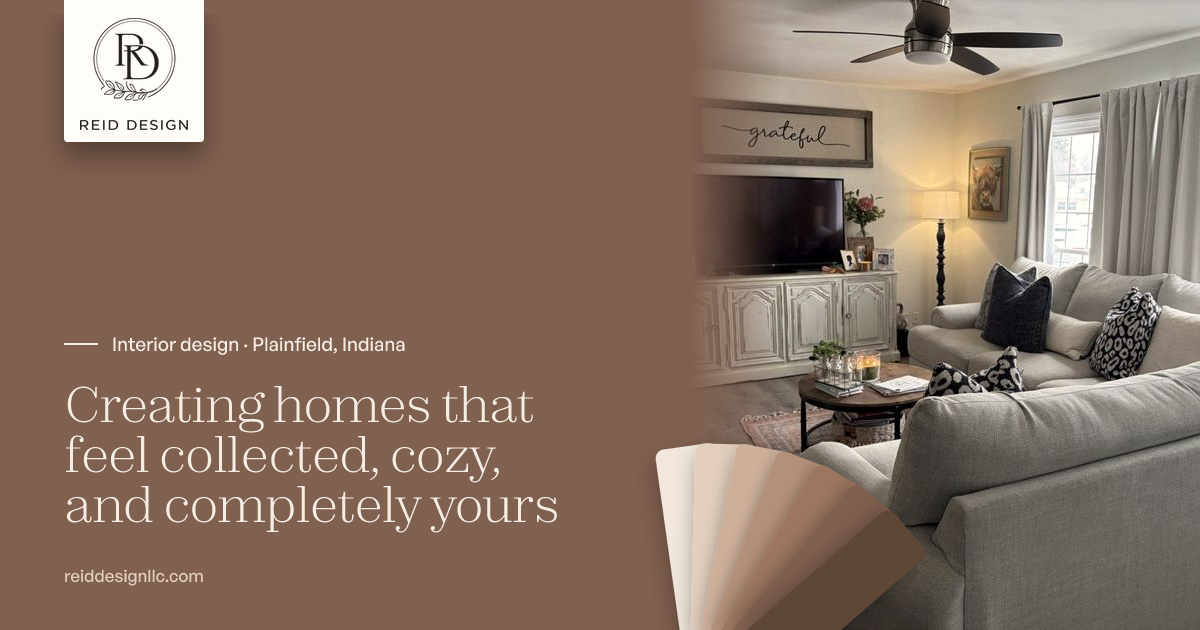
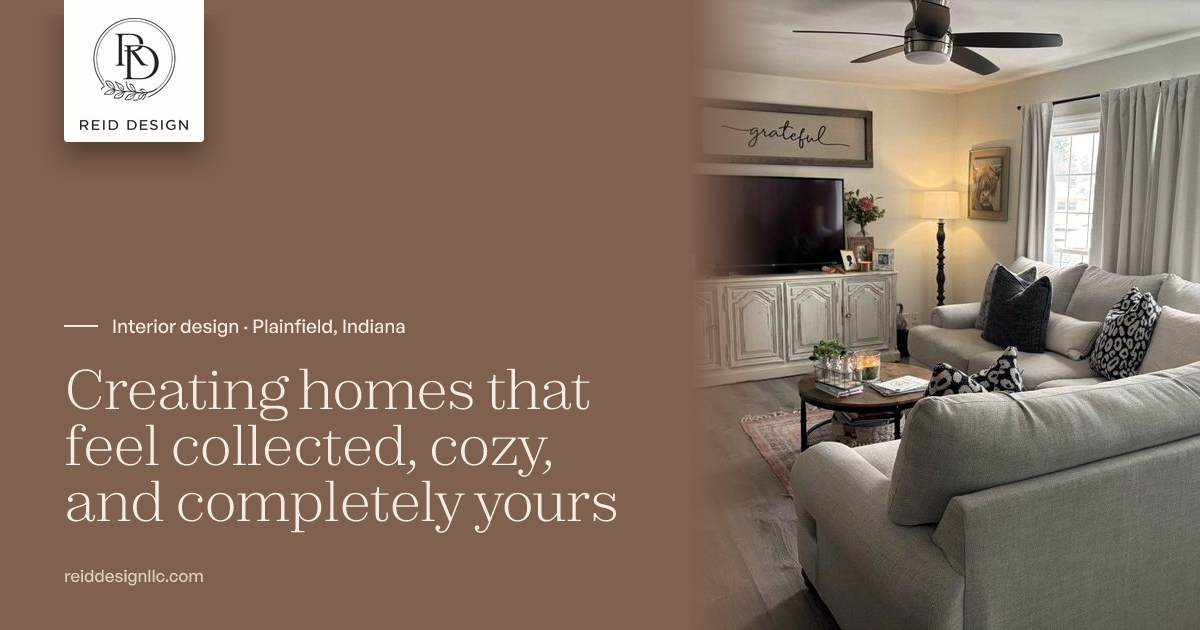
Drop the decorative paint swatches: hero fan, footer strip, share-card fan
Nathan found the decorative swatches repetitive and a bit fake. Paint chips
now appear only where they carry content (the services with their prices, the
phone menu's deck of pages). Removed the fan deck at the home hero's seam and
its mouse-follow script, the seven-tone strip across the top of the footer,
and the fan on every share card (design E is now 'the hero card'; a page with
no photo gets her monogram on Espresso). og-default.png redrawn. DESIGN.md
records the rule.

Claude-Session: https://claude.ai/code/session_01Seuu8jhnRzdMn2hnmBxNKt

Changed region(s): [[0.0308, 0.573, 0.7708, 1.0], [0.0925, 0.5127, 0.3392, 0.573]]

diff --git a/src/scripts/window-light.ts b/src/scripts/window-light.ts
@@ -7,7 +7,7 @@
 // sun from a window, cut by its muntins, with the shadows of leaves outside
 // swaying slowly across everything. One small fragment shader, drawn onto a
 // canvas laid over the band with `mix-blend-mode: soft-light`, so it lightens
-// and darkens what is under it (the photo, the fan deck, the Walnut ground)
+// and darkens what is under it (the photo and the Walnut ground)
 // without ever painting a colour of its own.
 //
 // Opt in with an attribute on the band:

diff --git a/CLAUDE.md b/CLAUDE.md
@@ -143,7 +143,7 @@ Studio plumbing, added 2026-08-28. All SSR (`prerender = false`), all `noindex`,
 - `src/lib/sanity.ts`, `src/lib/queries.ts`, `src/lib/sanity.types.ts` (Sanity client, GROQ queries, generated types)
 - `src/lib/scriptAccent.ts` — shared helper `splitScriptAccent(headline, accent)` used by `Hero.astro`, `SectionHeading.astro`, `FinalCta.astro`, `RiseWords.astro` and `home/HomeWords.astro` to split a headline around the accent phrase, which renders in Zodiak italic since the 2026-09-29 rebuild (no script font)
 - **The rebuild layer (2026-09-29, read `DESIGN.md` first):** `src/styles/reid.css` (primitives: `.r-wrap`, `.r-btn`, `.r-link`, headings, `.r-tag`, `.r-rise`), `src/components/RiseWords.astro` (server-split word-rise headline), `src/components/home/*` (HomeHero, HomeStaci, PaintChips, TapeProcess, HomeWords), `src/lib/cta.ts` (`resolveCtaHref`, shared with `CtaLink.astro`), `scripts/fetch-fonts.mjs` + `scripts/fonts.lock.json`. `FinalCta.astro`, `ServiceAreaCue.astro`, `Header.astro` and the ink footer were rebuilt in place, and the header, phone menu and footer again on 2026-09-30 as the **swatch book chrome** (DESIGN.md "Chrome"): `.r-pricetag` in `reid.css`, `src/components/mobile-nav/mobile-nav.css`, and `src/lib/chrome-facts.ts` + `getChromeFacts()` in `queries.ts` (the header's consultation price and the footer index's facts, all derived from content, never typed).
-- **The hand layer (2026-09-30, DESIGN.md "The hand layer"):** `src/scripts/ambient-doodles.ts` (one faint fine-line botanical, in the style of Staci's Instagram drawings, growing in from a corner of every content section; fetched as the section nears the screen) + `src/styles/doodle.css` (the draw-in, the corner placements, the Sandbar marker under h2/h3 accent phrases, the window-light canvas style), `src/lib/doodle-map.ts` (which botanical goes where, tested), `scripts/doodles.config.mjs` (the drawings, as geometry; safe to edit) + `scripts/lib/doodle-kit.mjs` + `scripts/generate-doodles.mjs` (`npm run doodles` rewrites the committed `src/assets/doodles/*.svg`), the phone menu sprig (`MobileNav.tsx`), `src/scripts/window-light.ts` (WebGL leaf shadows and window sun on `[data-window-light]` bands, started from BaseLayout; "sun" keeps the bright patch off the copy, "shade" only darkens) and the fan-follows-the-mouse script in `home/HomeHero.astro`. A section can opt out of its botanical with `data-no-doodle`.
+- **The hand layer (2026-09-30, DESIGN.md "The hand layer"):** `src/scripts/ambient-doodles.ts` (one faint fine-line botanical, in the style of Staci's Instagram drawings, growing in from a corner of every content section; fetched as the section nears the screen) + `src/styles/doodle.css` (the draw-in, the corner placements, the Sandbar marker under h2/h3 accent phrases, the window-light canvas style), `src/lib/doodle-map.ts` (which botanical goes where, tested), `scripts/doodles.config.mjs` (the drawings, as geometry; safe to edit) + `scripts/lib/doodle-kit.mjs` + `scripts/generate-doodles.mjs` (`npm run doodles` rewrites the committed `src/assets/doodles/*.svg`), the phone menu sprig (`MobileNav.tsx`), `src/scripts/window-light.ts` (WebGL leaf shadows and window sun on `[data-window-light]` bands, started from BaseLayout; "sun" keeps the bright patch off the copy, "shade" only darkens). A section can opt out of its botanical with `data-no-doodle`.
 - `src/lib/sectionVisibility.ts` — `getSectionVisibility(raw)` converts the raw `siteSettings.sectionVisibility` Sanity object into a flat boolean map. Rule: `value !== false` (unset/null/true = visible; only explicit false = hidden). Every toggleable page imports this and redirects home when its flag is false. See [Section visibility](docs/agent/page-architecture.md#section-visibility) in the Page architecture section.
 - `src/layouts/BaseLayout.astro` (anti-FOUC theme bootstrap, skip link, header/main/footer wiring, View Transitions ClientRouter, Lenis init, **scroll-reveal observer**, **sticky-header scroll listener** (sets `data-scrolled` so the header condenses; it no longer hides the header), Cloudflare Analytics, OG meta, JSON-LD, title-suffix-doubling guard)
 - `src/components/ui/` shadcn primitives — **note: `accordion.tsx` is customized** (removed `h-(--radix-accordion-content-height)` lock + dropped `text-sm font-medium` from trigger). If you reinstall via `npx shadcn add` it will revert; reapply the changes.
@@ -155,7 +155,7 @@ Studio plumbing, added 2026-08-28. All SSR (`prerender = false`), all `noindex`,
 - Astro wrappers: `SanityImage.astro`, `StructuredData.astro`, `SectionHeading.astro` (accepts optional `scriptAccent?: string`), `SectionDivider.astro`, `ServiceAreaCue.astro`, `ProjectMetaBand.astro`, `ProcessStepIllustration.astro`, `Hero.astro` (refactored to use `splitScriptAccent`, behavior unchanged), `HeroBackground.astro` (hero background layer — single image or cross-fading Ken Burns slideshow; used only by `Hero.astro`), `FinalCta.astro` (accepts optional `scriptAccent?: string`), `CtaLink.astro`, `StatsRow.astro` (About stats and the builder stat block: figures set as type, fully server-rendered since 2026-09-30, no count-up island; self-hides when `stats` is empty)
 - **Page builder:** `src/sanity/schemaTypes/sections.ts` (10 section block objects, the Instagram feed added 2026-09-30, + `SECTION_TYPES`, the single source for any pageBuilder array), `src/sanity/schemaTypes/page.ts` (the custom `page` doc type Staci creates herself; slug has a reserved-route collision guard; NOT a singleton, so it stays out of the SINGLETON_TYPES sets), `src/components/SectionRenderer.astro` (maps block `_type` → component and **owns the alternating background cadence** so reordering can't break the rhythm; that's why blocks have no color field), `src/components/sections/*` (`RichTextSection`, `ImageText`, `GalleryGrid`, `QuoteBlock`, `VideoEmbed`; hero/CTA/stats/spacer reuse existing components). Custom pages route via `src/pages/[slug].astro` (reserved-slug filter is INSIDE getStaticPaths, the Astro isolated-scope gotcha). Nav injection: `getNavPages()` → `BaseLayout` → Header/Footer. The page-builder array projection is `sectionsProjection()` in `queries.ts`. The same library also powers an **"Extra sections" append zone** (`additionalSectionsField` from `sections.ts`) on the four non-marker pages — `faqPage`, `contactPage`, `privacyPage`, `portfolioPage` — each projecting `sectionsProjection('additionalSections')` and rendering a second `<SectionRenderer idPrefix="…-extra">`; empty = no change. So every page is extensible from one block library.
 - **`src/sanity/schemaTypes/businessInfo.ts`** — Content-side singleton holding the home-base locality (`city` / `state` / `serviceRegion`, centralized 2026-06-11 — drives the footer line + LocalBusiness `addressLocality`/`addressRegion` + per-service `areaServed` with stable Plainfield/IN fallbacks), service areas, travel fees, availability, and studio geo coords (moved off `siteSettings` so Settings is identity + infrastructure only). `getSiteSettings` pulls these in under the same flat field names, so Header/Footer/pages read `siteSettings.serviceAreas` etc. unchanged; only the source doc moved. Edit them in Content → Business info. The old `siteSettings` fields are kept `hidden` + `readOnly` for rollback (never delete them).
-- **The share-card pipeline** (2026-09-29): `src/lib/og-card.ts` (pure: title cleaning, card path, spec block, coverage check; tested in `og-card.test.ts`), `src/integrations/og-cards.ts` (the `astro:build:done` hook; loads the drawing code through a native `import()` because Vite's module runner is closed by then), `scripts/lib/og-build.mjs` (spec collection, photo pool, the Midwest Cabinet Connection ban, fallback, coverage), `scripts/lib/og-render.mjs` (design E "the swatch card", 2026-09-30, the home hero in miniature; sharp draws the whole background, and the title's line breaks are computed from Zodiak Light's measured widths, then a backend: `og-render-satori.mjs` (satori + resvg, the build default, no browser) or `og-render-chromium.mjs` (local review only, `OG_RENDERER=chromium`; `OG_CHROMIUM_PATH` for a browser Playwright did not download). **`satori` and `@resvg/resvg-js` are exact-pinned**: satori needs a static WOFF (never WOFF2, never a variable font), which is why the fonts come from `scripts/.og-fonts/`; move them deliberately and compare against the Chromium render), `scripts/og-assets/*.png` (logo masks from `scripts/generate-og-logo.mjs`).
+- **The share-card pipeline** (2026-09-29): `src/lib/og-card.ts` (pure: title cleaning, card path, spec block, coverage check; tested in `og-card.test.ts`), `src/integrations/og-cards.ts` (the `astro:build:done` hook; loads the drawing code through a native `import()` because Vite's module runner is closed by then), `scripts/lib/og-build.mjs` (spec collection, photo pool, the Midwest Cabinet Connection ban, fallback, coverage), `scripts/lib/og-render.mjs` (design E "the hero card", 2026-09-30, the home hero in miniature, no decorative swatches; sharp draws the whole background, and the title's line breaks are computed from Zodiak Light's measured widths, then a backend: `og-render-satori.mjs` (satori + resvg, the build default, no browser) or `og-render-chromium.mjs` (local review only, `OG_RENDERER=chromium`; `OG_CHROMIUM_PATH` for a browser Playwright did not download). **`satori` and `@resvg/resvg-js` are exact-pinned**: satori needs a static WOFF (never WOFF2, never a variable font), which is why the fonts come from `scripts/.og-fonts/`; move them deliberately and compare against the Chromium render), `scripts/og-assets/*.png` (logo masks from `scripts/generate-og-logo.mjs`).
 - `scripts/generate-og-default.mjs`, `scripts/strip-editor-annotations.mjs`, `scripts/sweep-eyebrow-contrast.mjs` (reusable for future drift detection)
 - `scripts/seed-conversion-content.mjs` + `scripts/seed-script-accents.mjs` — idempotent seeders for the conversion-build documents that still exist (eDesign, privacy, post-inquiry roadmap; the quiz, calculator, guides, shop, gift, press and resources seeds went with those sections on 2026-09-30) and section/finalCta scriptAccent fields. Seeded content is placeholder; see OPERATIONS.md for what must be replaced (the DNS cutover has happened, so anything left is live).
 - `scripts/seed-about-personal.mjs` — idempotent seeder for the About personal section. Seeds placeholder text into `aboutPage.personal*` fields only when `personalHeadline` has not been customized. Safe to re-run.

diff --git a/DESIGN.md b/DESIGN.md
@@ -131,10 +131,8 @@ no decorative numbering.
   deals in from below under `prefers-reduced-motion: no-preference` only. Foot:
   the cream booking price tag with the price, then phone and email. Radix
   Dialog: aria-modal, focus trap, Escape, focus return, scroll lock.
-- **Footer** (`Footer.astro`), on ink. The seven-tone paint strip with its top
-  edge cut by pinking shears into the section above; shade names from 1100px
-  at 24px Zodiak (large text, so cream on Warm Bronze passes), colours only on
-  phones. A page index: tone swatch, page, dotted leader, and a real fact on
+- **Footer** (`Footer.astro`), on ink. (The seven-tone paint strip across its
+  top was removed 2026-09-30, see "Swatches carry content" below.) A page index: tone swatch, page, dotted leader, and a real fact on
   the right ("from $225", "4 steps", "from $250", "19 answers"), all derived
   from content, omitted when not derivable. Contact details as paper sample
   tags at slight angles. "Based in Plainfield" with the Business info towns.
@@ -146,8 +144,9 @@ no decorative numbering.
 ## Signature components (home)
 
 - `home/HomeHero.astro`: Walnut ground, headline with Oat-italic accent, the
-  `heroPortrait` photo on the right, and a CSS fan deck of the seven named tones
-  opening from the seam. Phone: photo on top, copy below.
+  `heroPortrait` photo on the right, leaf shadows and window sun drifting over
+  it (see "The hand layer"). Phone: photo on top, copy below. (The CSS fan
+  deck at the seam was removed 2026-09-30.)
 - `home/HomeStaci.astro`: tall portrait with a sample tag, the first paragraph
   as a Zodiak lede.
 - `home/PaintChips.astro`: services as a paint strip, one chip per service on the
@@ -455,18 +454,24 @@ and still) under reduced motion, none carrying meaning on its own.
   30 fps, started near the screen and when idle, paused off screen. The
   closing Walnut band gets the shade only (`data-window-light="shade"`), which
   can only raise cream-on-Walnut contrast. Never a colour of its own.
-- **The fan follows the mouse.** On the home hero the paint-chip fan opens
-  wider as the pointer moves right and closes a little to the left (the
-  `rotate` property, separate from the load animation). Fine pointers only.
 
-## Share cards: design E, "the swatch card" (2026-09-30)
+## Swatches carry content (2026-09-30)
+
+Nathan found the decorative paint swatches repetitive and a bit fake, so paint
+chips now appear only where they carry information: the services (a chip per
+service, with its price) and the phone menu's deck of pages. The decorative
+repeats are gone: the fan deck on the home hero, the seven-tone strip across
+the top of the footer, and the fan on the share cards. The small tone squares
+beside the footer's page index stay as list markers. Do not add a decorative
+chip, fan or strip back without asking him.
+
+## Share cards: design E, "the hero card" (2026-09-30)
 
 Every page's og:image is the home hero in miniature: Walnut ground, her logo
 hung from the top edge on its paper plate, a sentence-case kicker after a short
 rule, the title in Zodiak Light cream (balanced lines, measured from the real
 font), `reiddesignllc.com` in Oat, the page's photo on the right melting into
-the Walnut, and the seven-tone fan deck opening at the seam. No photo: the
-seven-tone strip stands in. Code: `scripts/lib/og-render*.mjs`; fonts are the
+the Walnut. No photo: an Espresso panel with her monogram in cream. Code: `scripts/lib/og-render*.mjs`; fonts are the
 site's own, as .woff copies fetched into `scripts/.og-fonts/`.
 
 ## Motion
@@ -474,8 +479,8 @@ site's own, as .woff copies fetched into `scripts/.og-fonts/`.
 - Every entrance enhances an already visible default. Nothing starts at
   opacity 0 behind a script-added class. Every animation sits inside
   `prefers-reduced-motion: no-preference`.
-- Load: headline words rise (1s, quint-out, 45ms stagger), fan deck opens
-  (1.6s, 70ms stagger), portrait settles from 110% to 100%.
+- Load: headline words rise (1s, quint-out, 45ms stagger), portrait settles
+  from 110% to 100%.
 - Scroll-driven, CSS only, behind `@supports (animation-timeline: view())`:
   paint chips settle, tape pulls out, the closing sprig draws.
 - Easing: `cubic-bezier(0.22, 1, 0.36, 1)` for interaction,

diff --git a/docs/agent/seo.md b/docs/agent/seo.md
@@ -11,7 +11,7 @@ Reid Design competes on local search ("Plainfield interior designer", "Indianapo
 - `<title>` — unique per page, 50–60 characters, brand name as suffix ("Services — Reid Design LLC"). Pulled from the page singleton's `seoTitle` field, falls back to the page's primary headline.
 - `<meta name="description">` — unique per page, 150–160 characters, written as a sentence a human would click. Pulled from `seoDescription`. No marketing puffery, match the on-page voice.
 - `<link rel="canonical">` — absolute URL computed from `Astro.url.pathname` + `site.url`. Prevents the workers.dev URL and the staging domain from competing with reiddesignllc.com once DNS cuts over.
-- Open Graph + Twitter meta — set in BaseLayout. **Every BaseLayout page gets its own share card, drawn on every build** (drawn since 2026-09-29; design E "the swatch card" since 2026-09-30: Walnut ground, her logo on its paper plate hung from the top edge, a sentence-case kicker after a short rule, the title in Zodiak Light, `reiddesignllc.com`, the page's photo on the right melting into the Walnut, and the seven-tone fan deck at the seam; the site's own faces, from `scripts/.og-fonts/`. Replaced design D, the Cormorant arch window). See "Share cards" below.
+- Open Graph + Twitter meta — set in BaseLayout. **Every BaseLayout page gets its own share card, drawn on every build** (drawn since 2026-09-29; design E "the hero card" since 2026-09-30: Walnut ground, her logo on its paper plate hung from the top edge, a sentence-case kicker after a short rule, the title in Zodiak Light, `reiddesignllc.com`, and the page's photo on the right melting into the Walnut (no photo: her monogram on Espresso); the site's own faces, from `scripts/.og-fonts/`. Replaced design D, the Cormorant arch window). See "Share cards" below.
 
 ### Share cards (og:image)
 

diff --git a/docs/agent/changelog.md b/docs/agent/changelog.md
@@ -15,9 +15,11 @@
   h2/h3 headings, pulled across on scroll.
 - **Window light:** WebGL leaf shadows and window sun (`src/scripts/window-light.ts`)
   on the home hero (sun on the photo side only) and the closing band (shade only).
-  The home fan deck follows the mouse.
-- **Share cards design E, "the swatch card":** Walnut, logo plate, Zodiak title,
-  photo, fan deck. `fetch-fonts.mjs` now also fetches .woff copies for satori
+- **Swatches carry content:** the decorative paint-chip repeats are gone (the
+  home hero fan deck, the footer's seven-tone strip, the share-card fan) at
+  Nathan's call; chips stay on the services and in the phone menu.
+- **Share cards design E, "the hero card":** Walnut, logo plate, Zodiak title,
+  photo. `fetch-fonts.mjs` now also fetches .woff copies for satori
   into gitignored `scripts/.og-fonts/` (lock `ogFiles`). `public/og-default.png`
   redrawn.
 - A photo-traced sketch layer and an AI "room fills up" prototype were built and

diff --git a/docs/PENDING.md b/docs/PENDING.md
@@ -25,10 +25,6 @@ items to "Recently closed" with a date, and prune that section when it grows.
   redrawn from the four Instagram posts Nathan shared. If Staci has original
   drawings (not the template art in her posts), trace one or two into
   `scripts/doodles.config.mjs` and `npm run doodles`.
-- **The paint-chip swatches: Nathan finds them repetitive and a bit fake**
-  (2026-09-30). Open question: which ones to keep (hero fan, services chips,
-  footer strip, phone menu deck, share-card fan) and whether to make the kept
-  ones read as real paper samples. Waiting on his call.
 - **Look at the window light on a real phone and laptop** (home hero, and the
   shade on the closing band). It is tuned by eye in headless Chromium; if it
   reads too strong or too faint, the two numbers are the `0.28` (sun) and
